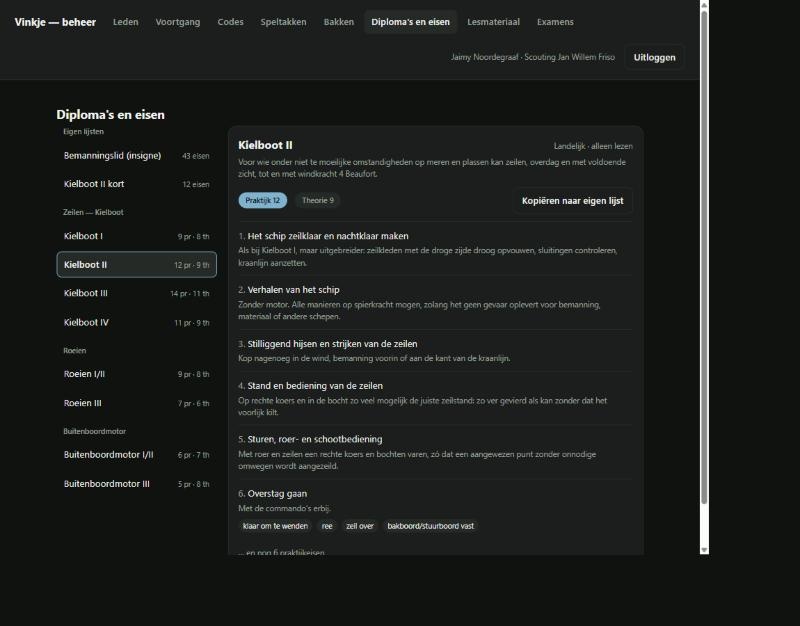
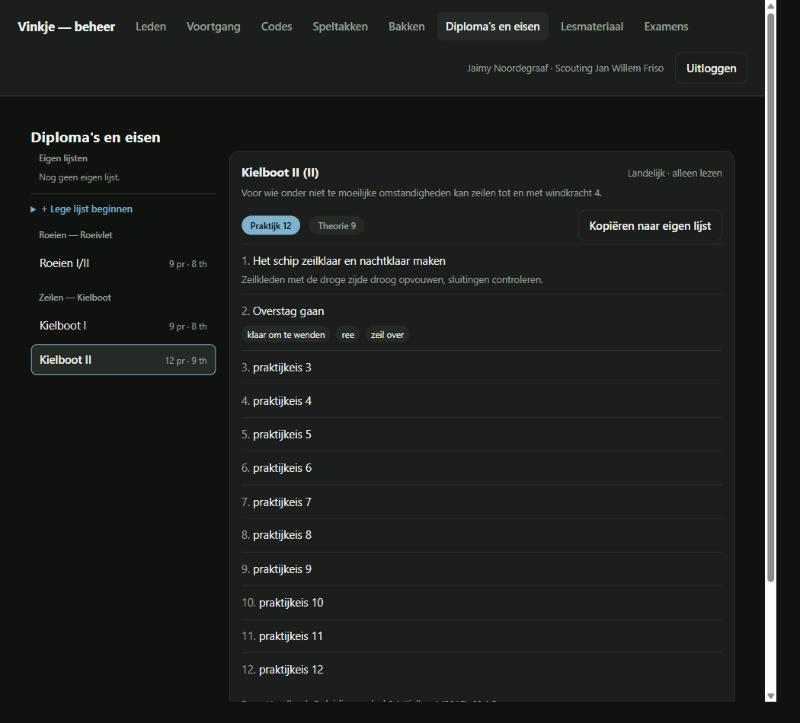
Diploma's en eisen: links kiezen, rechts de hele lijst
Vier niveaus diep: discipline, dan een klapper per diploma, dan praktijk en
theorie onder elkaar, dan per eis nog een klapper voor de onderdelen. Bij elke
stap raakte je kwijt waar je was, en naar een ander diploma springen was
dichtklappen, scrollen, openklappen.

Nu staan alle vijftien lijsten altijd links in beeld, gegroepeerd per
discipline en met hoeveel eisen erin zitten. Rechts het gekozen diploma in zijn
geheel, met de toelichting uit het handboek erbij. Praktijk en theorie zijn
knoppen geworden, net als in de app.

De onderdelen staan gewoon onder hun eis in plaats van in een klapper met
"4 onderdelen" erop. Het zijn losse woorden -- knopen, commando's, termen --
die passen op het scherm.

Het aantal eisen per lijst komt uit één extra vraag voor alle lijsten samen,
niet uit een vraag per lijst.

Eigen lijsten houden alles wat ze hadden: de eisen zijn bewerkbaar en het
naam/omschrijving-formulier zit onder "Lijst bewerken", zodat het niet boven de
eisen staat waar je voor komt.

diff --git a/admin/index.html b/admin/index.html
@@ -149,6 +149,15 @@
          color: var(--dim); }
   .opt.goed { background: var(--good); color: var(--card); font-weight: 600; }
   .merk { font-size: 11px; color: var(--dim); margin-left: 8px; }
+
+  /* Een eis in de catalogus, met zijn toelichting uit het handboek en de
+     onderdelen eronder. Die onderdelen zaten in een eigen klapper met
+     "4 onderdelen" erop; het zijn losse woorden, die passen gewoon. */
+  .eis { padding: 11px 0; border-top: 1px solid var(--border); }
+  .eis:first-of-type { border-top: none; }
+  .eis .nr { color: var(--dim); }
+  .eis .toel { font-size: 13px; color: var(--dim); margin-top: 3px; }
+  .ond { margin-top: 6px; display: flex; flex-wrap: wrap; gap: 4px; }
   .keuzeregel {
     display: flex; justify-content: space-between; gap: 12px; width: 100%;
     text-align: left; font: inherit; cursor: pointer; padding: 10px 12px;
@@ -1555,129 +1564,192 @@ function crewCard(crew, members, aboard) {
 //   eigen       van deze groep. Een insigne, of de verkorte eisen van een kamp.
 //               Hier volledig in te richten; niemand buiten de groep ziet hem.
 
+// Welke lijst open staat en of je naar praktijk of theorie kijkt.
+let catalogusGekozen = null;
+let catalogusKind = 'praktijk';
+
 async function renderCatalogus(view) {
   view.append(el('h2', {}, "Diploma's en eisen"));
 
   const [disciplines, diplomas] = await Promise.all([
-    check(await db.from('disciplines').select('*').order('sort_order')),
-    check(await db.from('diplomas').select('*').order('sort_order')),
+    run(async () => check(await db.from('disciplines').select('*').order('sort_order'))),
+    run(async () => check(await db.from('diplomas').select('*').order('sort_order'))),
   ]);
+
+  // Hoeveel eisen per lijst, voor het bijschrift links. Eén vraag voor alles,
+  // en alleen de eisen zelf -- onderdelen tellen niet als eis.
+  const tellingen = {};
+  for (const r of await run(async () => check(
+    await db.from('requirements').select('diploma_id, kind, parent_id')))) {
+    if (r.parent_id) continue;
+    const t = (tellingen[r.diploma_id] ??= { praktijk: 0, theorie: 0 });
+    t[r.kind] += 1;
+  }
+  const bijschrift = (id) => {
+    const t = tellingen[id];
+    if (!t || t.praktijk + t.theorie === 0) return 'leeg';
+    return t.praktijk + ' pr · ' + t.theorie + ' th';
+  };
   const eigen = diplomas.filter((d) => d.group_id);
   const landelijk = diplomas.filter((d) => !d.group_id);
 
-  // ---- eigen lijsten
-  view.append(el('h3', {}, 'Eigen lijsten'));
-  view.append(el('div', { class: 'note' },
-    'Lijsten van onze groep, naast de landelijke eisen. Ze tellen en tekenen af als elk ander diploma, ' +
-    'maar alleen wij zien ze en het opnieuw laden van de landelijke eisen raakt ze niet.'));
-
-  const eigenDoos = el('div', { class: 'card' });
-  if (eigen.length === 0) {
-    eigenDoos.append(el('p', { class: 'dim' }, 'Nog geen eigen lijst.'));
+  if (!diplomas.some((d) => d.id === catalogusGekozen)) {
+    catalogusGekozen = (eigen[0] ?? landelijk[0])?.id ?? null;
   }
-  for (const dip of eigen) eigenDoos.append(eigenLijstBlock(dip));
+  const gekozen = diplomas.find((d) => d.id === catalogusGekozen);
 
-  const nieuweNaam = field('Naam', '', {});
+  const raster = el('div', { class: 'md' });
+
+  // ---- links: alle vijftien lijsten in beeld, altijd
+  const lijst = el('div', { class: 'lijst' });
+  const knop = (dip, bij) => el('button', {
+    class: 'lijstknop' + (dip.id === catalogusGekozen ? ' aan' : ''),
+    onclick: () => { catalogusGekozen = dip.id; render(); },
+  }, el('span', {}, dip.name), el('small', {}, bij));
+
+  lijst.append(el('div', { class: 'lijstkop' }, 'Eigen lijsten'));
+  if (eigen.length === 0) {
+    lijst.append(el('div', { class: 'dim', style: 'font-size:12px; margin:0 0 4px 11px' },
+      'Nog geen eigen lijst.'));
+  }
+  for (const dip of eigen) lijst.append(knop(dip, bijschrift(dip.id)));
+  lijst.append(nieuweLijstRij());
+
+  for (const d of disciplines) {
+    const hier = landelijk.filter((x) => x.discipline_id === d.id);
+    if (hier.length === 0) continue;
+    lijst.append(el('div', { class: 'lijstkop' },
+      d.name + (d.subtitle ? ' — ' + d.subtitle : '')));
+    for (const dip of hier) lijst.append(knop(dip, bijschrift(dip.id)));
+  }
+  raster.append(lijst);
+
+  raster.append(gekozen
+    ? await diplomaPaneel(gekozen)
+    : el('div', { class: 'card' }, el('p', { class: 'dim' }, 'Nog geen lijsten.')));
+  view.append(raster);
+}
+
+function nieuweLijstRij() {
+  const naam = field('Naam', '', {});
   const soort = el('select', {},
     el('option', { value: 'diploma' }, 'Diploma'),
     el('option', { value: 'insigne' }, 'Insigne'));
-  eigenDoos.append(el('details', {}, el('summary', {}, 'Lege lijst beginnen'),
-    el('div', { class: 'row', style: 'margin-top:10px' }, nieuweNaam.wrap, soort,
+  return el('details', { style: 'margin-top:6px' }, el('summary', {}, '+ Lege lijst beginnen'),
+    el('div', { class: 'row', style: 'margin-top:10px' }, naam.wrap, soort,
       el('button', {
         class: 'btn',
         onclick: async () => {
-          const naam = nieuweNaam.input.value.trim();
-          if (naam.length < 2) return;
+          const n = naam.input.value.trim();
+          if (n.length < 2) return;
           await run(async () => check(await db.rpc('create_own_list', {
-            p_group: group.id, p_name: naam, p_kind: soort.value, p_summary: null,
+            p_group: group.id, p_name: n, p_kind: soort.value, p_summary: null,
           })), 'Lijst gemaakt');
           render();
         },
-      }, 'Maken'))));
-  view.append(eigenDoos);
+      }, 'Maken')));
+}
 
-  // ---- landelijk
-  view.append(el('h3', {}, 'Landelijk'));
-  view.append(el('div', { class: 'note' },
-    'Vastgesteld door de Watersport Academy en voor iedere groep gelijk, dus hier alleen te lezen. ' +
-    'Wil je een kortere versie voor een kamp, maak er dan een eigen kopie van — schrappen in die kopie ' +
-    'laat het origineel heel. Moet de landelijke lijst zelf kloppen, pas dan supabase/010-eisen.sql aan.'));
+/**
+ * Eén diploma, helemaal in beeld.
+ *
+ * Verving het stapelen van klappers: discipline, dan diploma, dan praktijk en
+ * theorie onder elkaar, dan per eis nog een klapper voor de onderdelen. Vier
+ * niveaus diep, en bij elke stap raakte je kwijt waar je was. Nu kies je links
+ * en lees je rechts; springen naar een ander diploma is één klik.
+ */
+async function diplomaPaneel(dip) {
+  const eigen = Boolean(dip.group_id);
+  const kaart = el('div', { class: 'card' });
 
-  for (const d of disciplines) {
-    const box = el('div', { class: 'card' });
-    box.append(el('h4', {}, d.name + (d.subtitle ? ` — ${d.subtitle}` : '')));
-    for (const dip of landelijk.filter((x) => x.discipline_id === d.id)) {
-      box.append(landelijkBlock(dip));
-    }
-    view.append(box);
+  kaart.append(el('div', { class: 'groepkop' },
+    el('b', {}, dip.name + (dip.level_label ? ' (' + dip.level_label + ')' : '')),
+    el('span', { class: 'dim' }, eigen
+      ? (dip.kind === 'insigne' ? 'Eigen insigne' : 'Eigen lijst') + ' · van onze groep'
+      : 'Landelijk · alleen lezen')));
+
+  if (dip.summary) kaart.append(el('p', { class: 'dim', style: 'margin-top:4px' }, dip.summary));
+
+  const eisen = check(await db.from('requirements').select('*')
+    .eq('diploma_id', dip.id).order('kind').order('position'));
+  const vanSoort = (k) => eisen.filter((r) => r.kind === k && !r.parent_id);
+
+  const knoppen = el('div', { class: 'row', style: 'margin:12px 0 4px; flex-wrap:wrap' });
+  for (const k of ['praktijk', 'theorie']) {
+    const n = vanSoort(k).length;
+    knoppen.append(chip((k === 'praktijk' ? 'Praktijk ' : 'Theorie ') + n,
+      catalogusKind === k, () => { catalogusKind = k; render(); }));
   }
-}
+  knoppen.append(el('span', { style: 'flex:1' }));
+  if (!eigen) knoppen.append(kopieerKnop(dip));
+  kaart.append(knoppen);
 
-/** Een landelijke lijst: lezen, en desgewenst kopiëren. */
-function landelijkBlock(dip) {
-  const details = klapper(`diploma:${dip.id}`,
-    `${dip.name}${dip.level_label ? ` (${dip.level_label})` : ''}`);
-  const body = el('div', { style: 'margin-top:12px' }, el('p', { class: 'dim' }, 'Bezig met laden…'));
-  details.append(body);
+  if (eigen) kaart.append(eigenLijstKnoppen(dip));
 
-  details.addEventListener('toggle', async () => {
-    if (!details.open || details.dataset.loaded) return;
-    details.dataset.loaded = '1';
-    body.innerHTML = '';
+  const top = vanSoort(catalogusKind);
+  if (top.length === 0) {
+    kaart.append(el('p', { class: 'dim' },
+      'Geen ' + (catalogusKind === 'praktijk' ? 'praktijk' : 'theorie') + 'eisen.'));
+  }
 
-    const naam = field('Naam voor de kopie', `${dip.name} (kort)`, {});
-    body.append(el('div', { class: 'row' }, naam.wrap,
-      el('button', {
-        class: 'btn',
-        onclick: async () => {
-          await run(async () => check(await db.rpc('copy_list_to_group', {
-            p_group: group.id, p_source: dip.id,
-            p_name: naam.input.value.trim() || null, p_kind: 'diploma',
-          })), 'Gekopieerd naar je eigen lijsten');
-          render();
-        },
-      }, 'Kopiëren naar eigen lijst')));
-
-    const eisen = check(await db.from('requirements').select('*')
-      .eq('diploma_id', dip.id).order('kind').order('position'));
-
-    for (const kind of ['praktijk', 'theorie']) {
-      const top = eisen.filter((r) => r.kind === kind && !r.parent_id);
-      if (top.length === 0) continue;
-      body.append(el('h4', {}, kind === 'praktijk' ? 'Praktijk' : 'Theorie'));
-      const lijst = el('ol', { class: 'dim', style: 'margin:0 0 10px 18px' });
-      for (const eis of top) {
-        const parts = eisen.filter((r) => r.parent_id === eis.id);
-        lijst.append(el('li', {}, eis.title + (parts.length ? ` — ${parts.length} onderdelen` : '')));
+  for (const eis of top) {
+    const parts = eisen.filter((r) => r.parent_id === eis.id);
+    if (eigen) {
+      kaart.append(eigenEisBlock(eis, parts, top));
+    } else {
+      // De onderdelen zijn losse woorden -- knopen, commando's, termen. Die
+      // stonden in een eigen klapper met "4 onderdelen" erop; ze passen gewoon
+      // op het scherm.
+      const e = el('div', { class: 'eis' },
+        el('div', {}, el('span', { class: 'nr' }, eis.position + '. '), eis.title));
+      if (eis.detail) e.append(el('div', { class: 'toel' }, eis.detail));
+      if (parts.length) {
+        e.append(el('div', { class: 'ond' },
+          ...parts.map((p) => el('span', { class: 'naam' }, p.title))));
       }
-      body.append(lijst);
+      kaart.append(e);
     }
-  });
+  }
+  if (eigen) kaart.append(nieuweEis(dip.id, catalogusKind));
 
-  return details;
+  if (!eigen && dip.source) {
+    kaart.append(el('p', { class: 'dim', style: 'margin-top:14px' }, 'Bron: ' + dip.source));
+  }
+  if (!eigen) {
+    kaart.append(el('div', { class: 'note', style: 'margin-top:10px' },
+      'Vastgesteld door de Watersport Academy en voor iedere groep gelijk. Wil je een kortere ' +
+      'versie voor een kamp, maak er dan een eigen kopie van — schrappen in die kopie laat ' +
+      'het origineel heel. Moet de landelijke lijst zelf kloppen, pas dan supabase/010-eisen.sql aan.'));
+  }
+  return el('div', {}, kaart);
 }
 
-/** Een eigen lijst: alles mag. */
-function eigenLijstBlock(dip) {
-  const details = klapper(`diploma:${dip.id}`,
-    `${dip.name}${dip.kind === 'insigne' ? ' — insigne' : ''}`);
-  const body = el('div', { style: 'margin-top:12px' }, el('p', { class: 'dim' }, 'Bezig met laden…'));
-  details.append(body);
+function kopieerKnop(dip) {
+  return el('button', {
+    class: 'btn ghost',
+    onclick: async () => {
+      const naam = window.prompt('Naam voor de kopie:', dip.name + ' (kort)');
+      if (naam === null) return;
+      await run(async () => check(await db.rpc('copy_list_to_group', {
+        p_group: group.id, p_source: dip.id,
+        p_name: naam.trim() || null, p_kind: 'diploma',
+      })), 'Gekopieerd naar je eigen lijsten');
+      render();
+    },
+  }, 'Kopiëren naar eigen lijst');
+}
 
-  details.addEventListener('toggle', async () => {
-    if (!details.open || details.dataset.loaded) return;
-    details.dataset.loaded = '1';
-    body.innerHTML = '';
+function eigenLijstKnoppen(dip) {
+  const naam = field('Naam', dip.name, {});
+  const soort = el('select', {},
+    el('option', { value: 'diploma', selected: dip.kind === 'diploma' }, 'Diploma'),
+    el('option', { value: 'insigne', selected: dip.kind === 'insigne' }, 'Insigne'));
+  const samenvatting = field('Omschrijving', dip.summary ?? '', { multiline: true, wrapClass: 'grow' });
 
-    const naam = field('Naam', dip.name, {});
-    const soort = el('select', {},
-      el('option', { value: 'diploma', selected: dip.kind === 'diploma' }, 'Diploma'),
-      el('option', { value: 'insigne', selected: dip.kind === 'insigne' }, 'Insigne'));
-    const samenvatting = field('Omschrijving', dip.summary ?? '', { multiline: true, wrapClass: 'grow' });
-
-    body.append(el('div', { class: 'row' }, naam.wrap, soort));
-    body.append(el('div', { class: 'row', style: 'margin-top:10px' }, samenvatting.wrap));
-    body.append(el('div', { class: 'row', style: 'margin-top:10px' },
+  return el('details', { style: 'margin-bottom:10px' }, el('summary', {}, 'Lijst bewerken'),
+    el('div', { class: 'row', style: 'margin-top:10px' }, naam.wrap, soort),
+    el('div', { class: 'row', style: 'margin-top:10px' }, samenvatting.wrap),
+    el('div', { class: 'row', style: 'margin-top:10px' },
       el('button', {
         class: 'btn ghost',
         onclick: () => run(async () => check(await db.rpc('update_own_list', {
@@ -1690,24 +1762,10 @@ function eigenLijstBlock(dip) {
         onclick: async () => {
           if (!confirmed(`${dip.name} verwijderen?\n\nAlle eisen en onderdelen gaan mee. Werkt er nog iemand aan deze lijst, dan weigert de database het.`)) return;
           await run(async () => check(await db.rpc('delete_own_list', { p_diploma: dip.id })), 'Verwijderd');
+          catalogusGekozen = null;
           render();
         },
       }, 'Lijst verwijderen')));
-
-    const eisen = check(await db.from('requirements').select('*')
-      .eq('diploma_id', dip.id).order('kind').order('position'));
-
-    for (const kind of ['praktijk', 'theorie']) {
-      body.append(el('h4', {}, kind === 'praktijk' ? 'Praktijk' : 'Theorie'));
-      const top = eisen.filter((r) => r.kind === kind && !r.parent_id);
-      for (const eis of top) {
-        body.append(eigenEisBlock(eis, eisen.filter((r) => r.parent_id === eis.id), top));
-      }
-      body.append(nieuweEis(dip.id, kind));
-    }
-  });
-
-  return details;
 }
 
 function eigenEisBlock(eis, parts, buren) {
